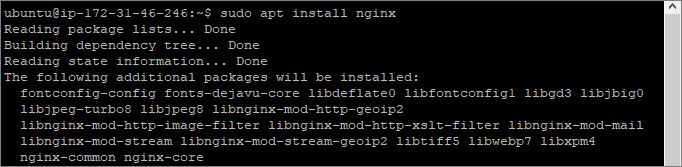
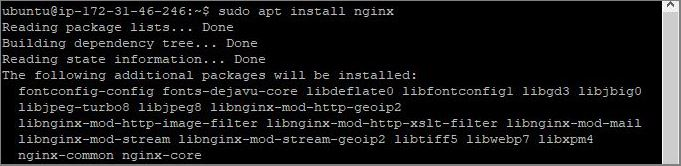
Resolving image display issue

diff --git a/project2.md b/project2.md
@@ -12,13 +12,13 @@
 
    - `sudo apt install nginx`
 
-     ![alt text](./projectPictures/step2_p2.JPG)
+     ![alt text](./projectPictures/step2_p2.jpg)
 
    c. Verify the status of Apache2 to see if it is running.
 
    - `sudo systemctl status nginx`
 
-     ![step3](./projectPictures/step3_p2.JPG)
+     ![step3](./projectPictures/step3_p2.jpg)
 
    d. Check local access to web through the local host
 
